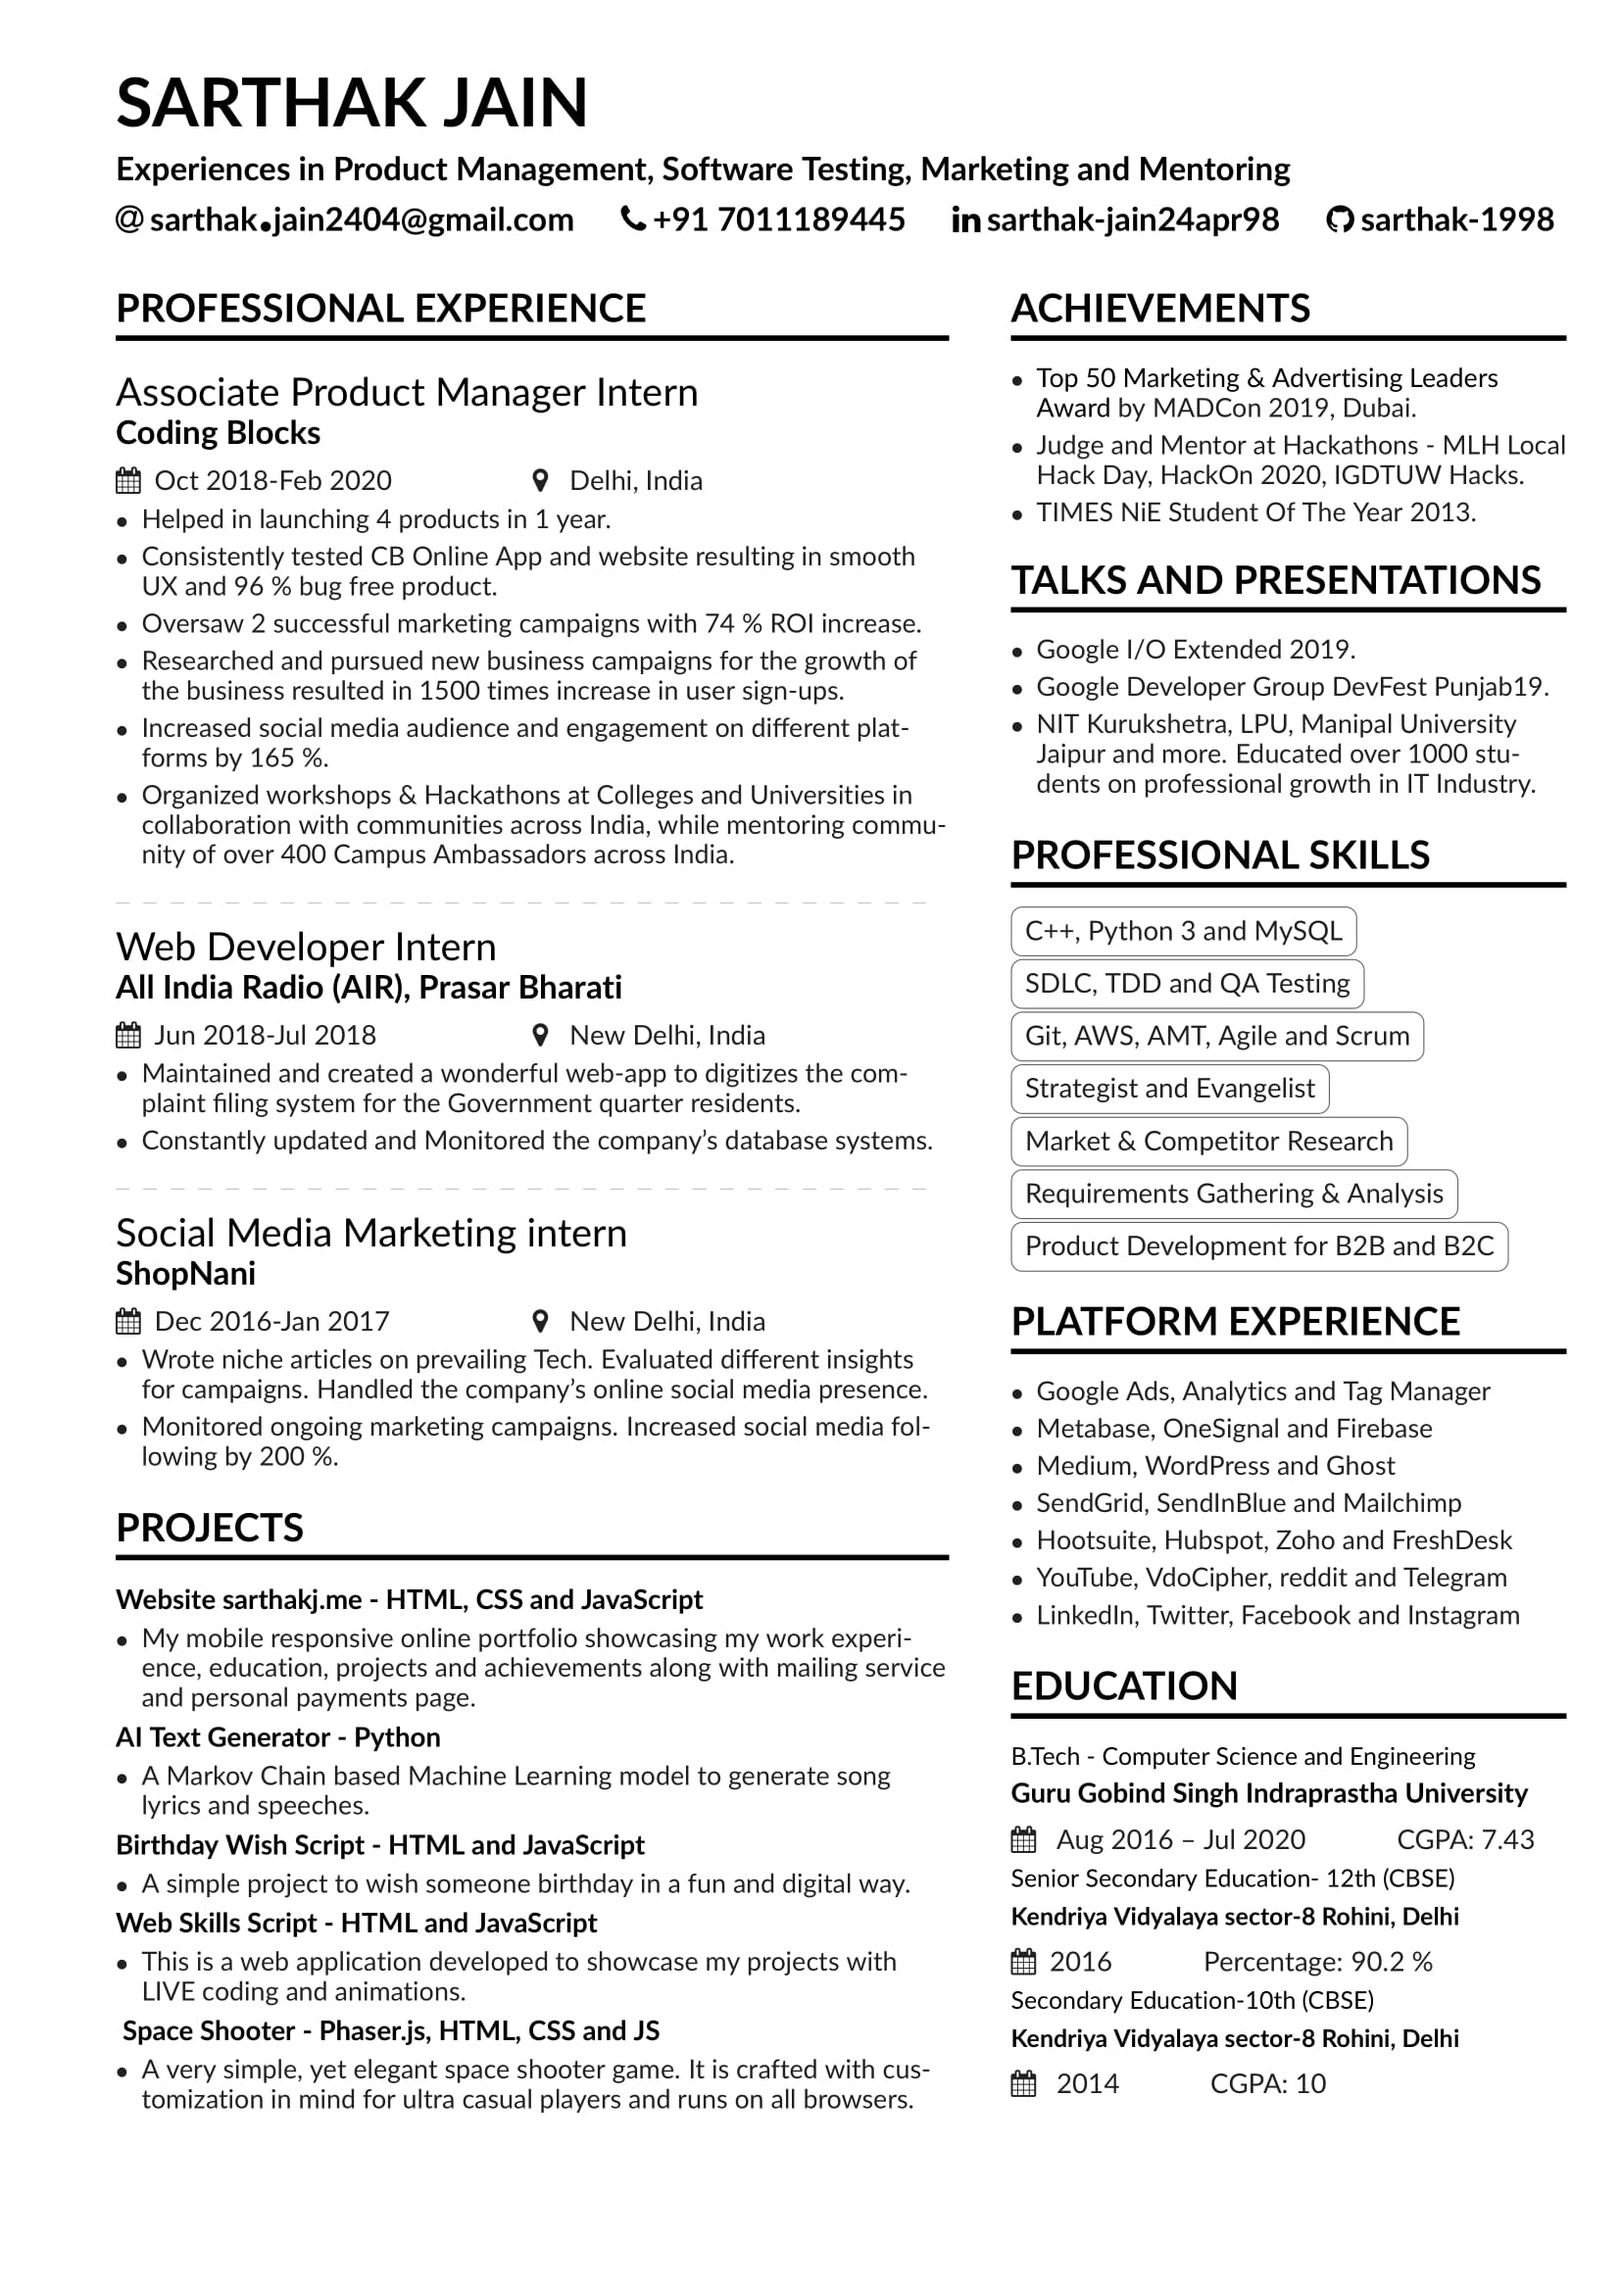
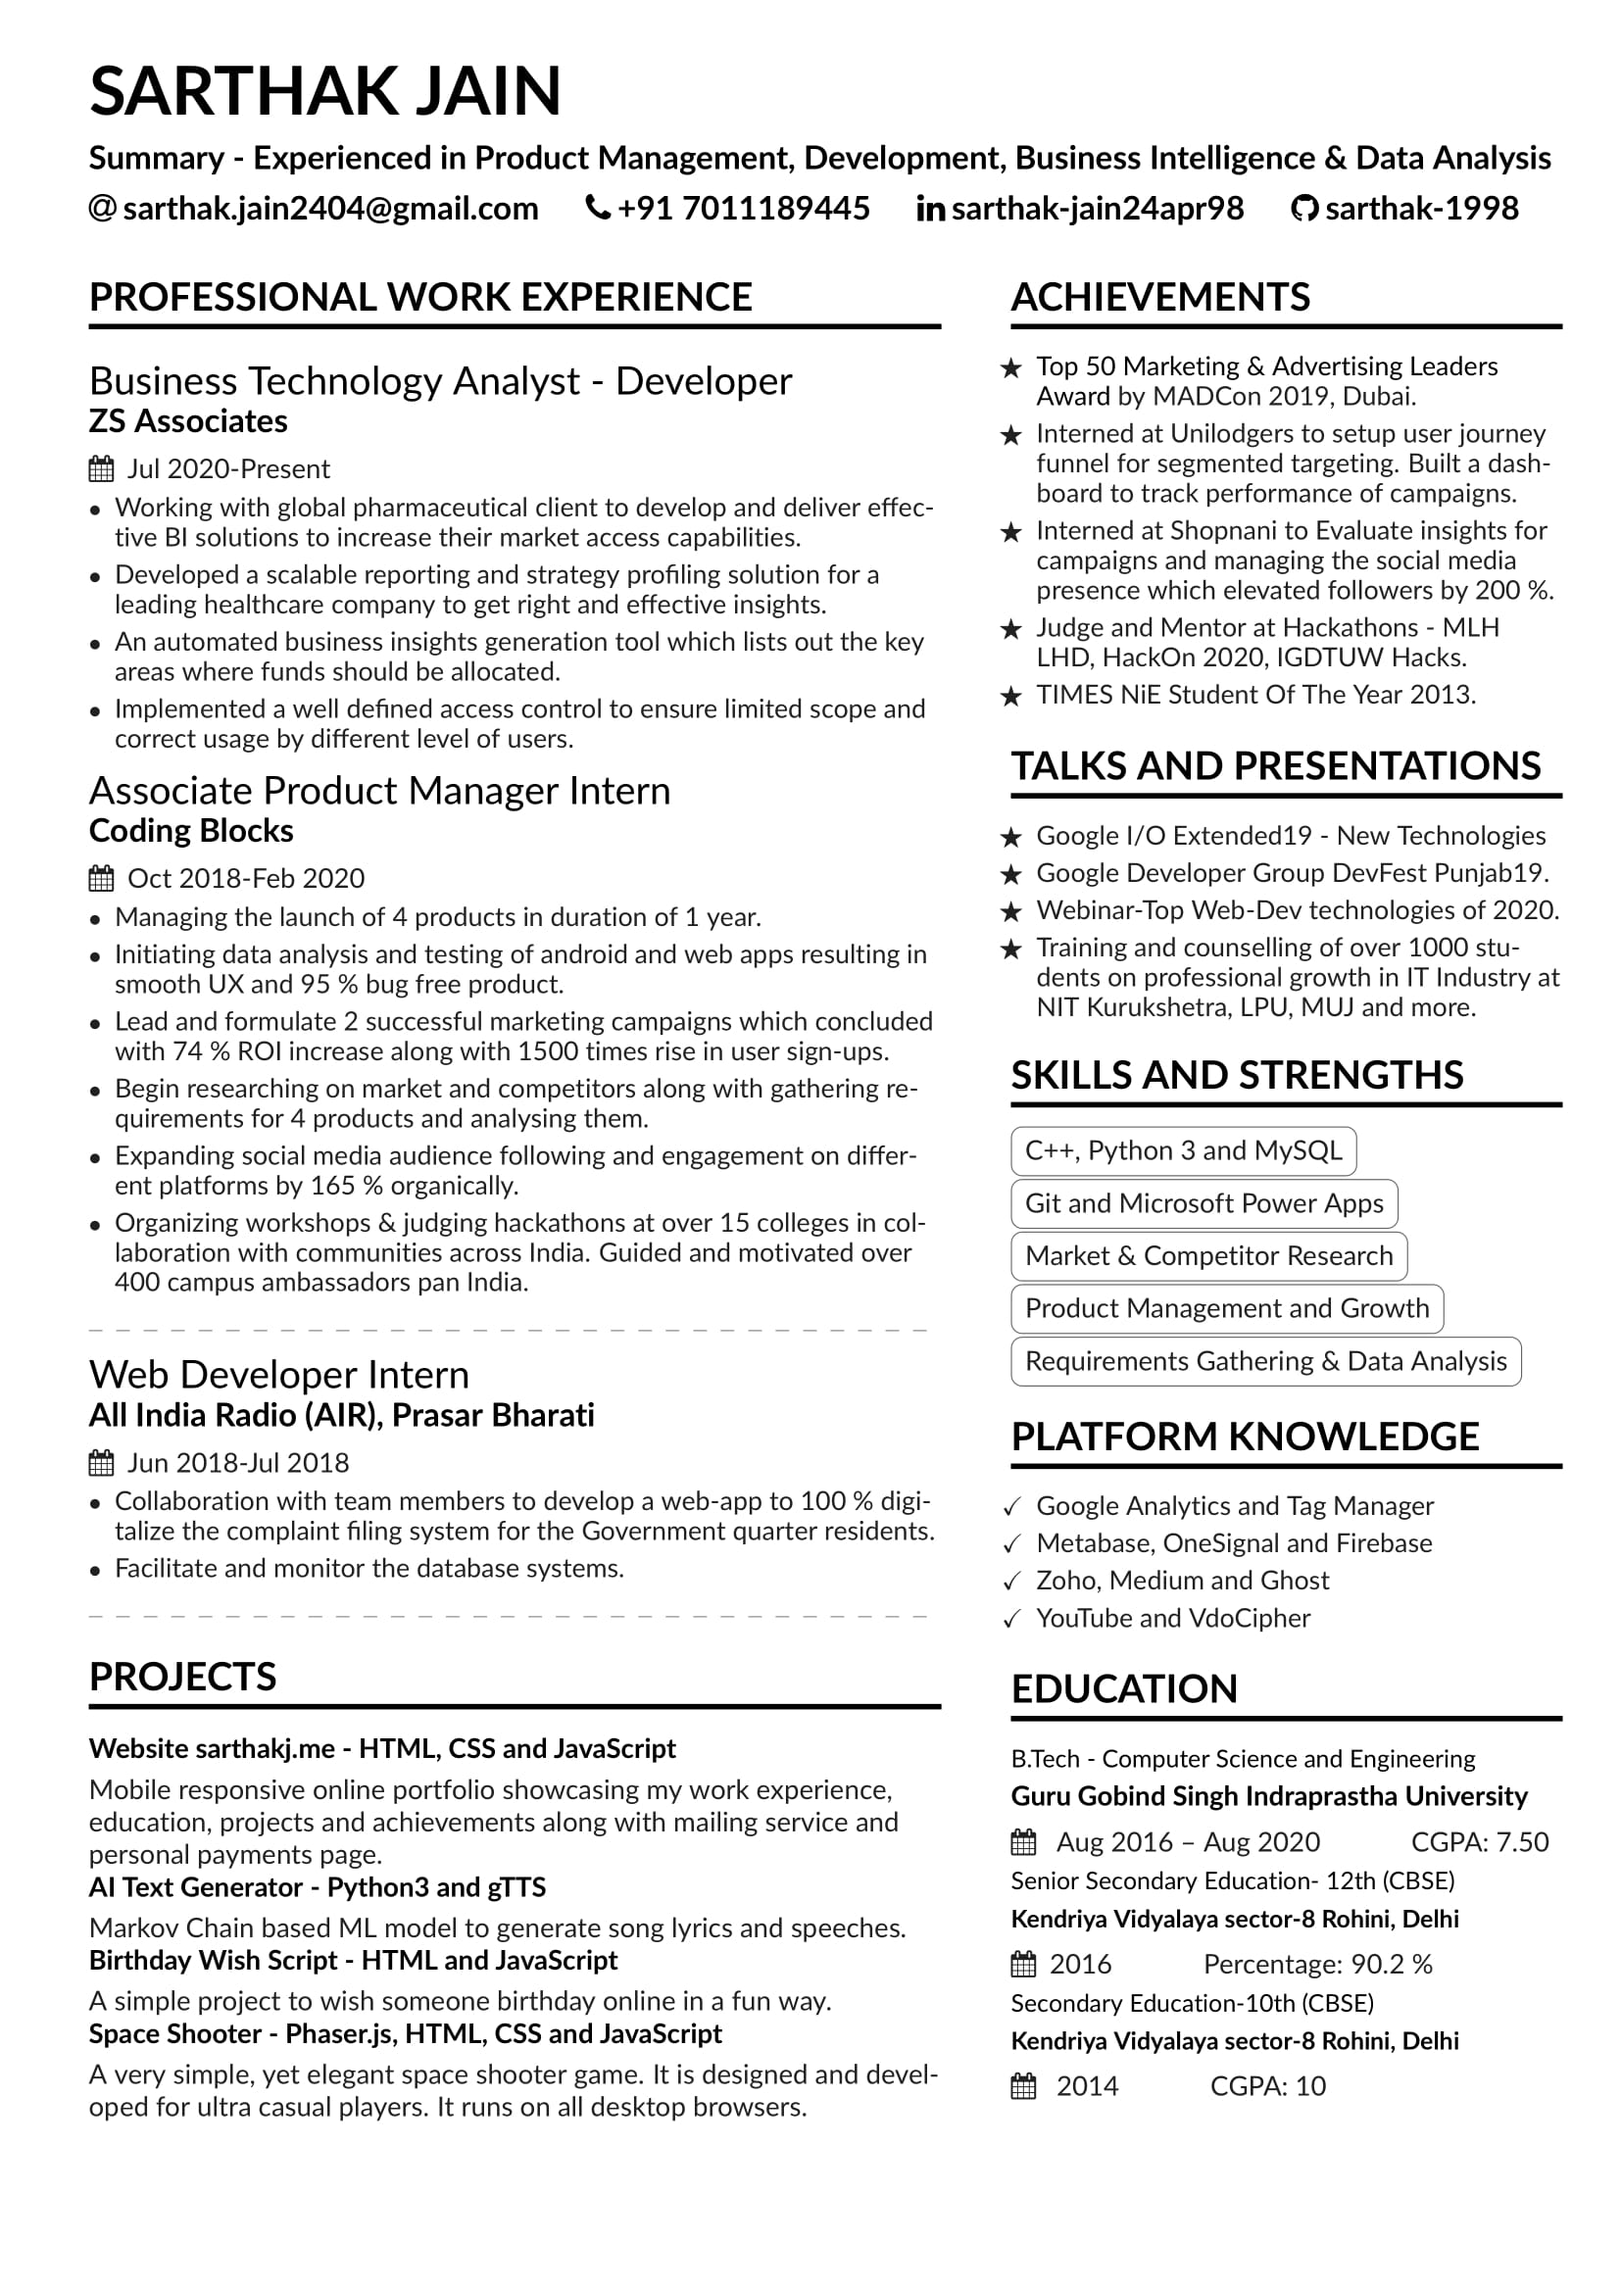
updated resume and jobs

Changed region(s): [[0.0617, 0.0312, 0.9559, 0.9363]]

diff --git a/index.html b/index.html
@@ -208,7 +208,7 @@
 
 
           <p>Hi 👋 I am Sarthak Jain, <strong>a Computer Science Engineering undergraduate </strong> (2016-2020) from GGSIPU Delhi, India. 
-            I've been a developer, evangelist, judge, speaker and mentor. Programming and Marketing for products is not just a career path for me, but also a passion of mine.
+           Coding and Marketing for products is not just a career path for me, but also a passion of mine.
             I like to make web-apps, games and new stuff. 
             Love to contribute in open source & various communities. If you've made any project, I would definitely like to see it !! 
             Recently, I've taken a keen interest in product management and data analysis.</p>
@@ -234,7 +234,7 @@
             </div>
             <div class="flex-title">
               <h3>Business Technology Analyst - Developer
-                <a href = "https://allindiaradio.gov.in/"><small>ZS Associates</small> </a>
+                <a href = "https://www.zs.com/"><small>ZS Associates</small> </a>
                 <small>Jul 2020 - Present</small>
               </h3>
             </div>
@@ -245,6 +245,26 @@
               <li>Developed a scalable reporting and strategy profiling solution for a leading healthcare company to get right and effective insights.</li>
               <li>An automated business insights generation tool which lists out the key areas where funds should be allocated.</li>
               <li>Implemented a well defned access control to ensure limited scope and correct usage by different level of users.</li>
+            </ul>
+          </div>
+
+          <div class="flex-container">
+            <div class="flex-media-logo">
+              <img src="./assets/Unilodgers.png">
+            </div>
+            <div class="flex-title">
+              <h3>Product Intern
+                <a href = "https://www.unilodgers.com/"><small>Unilodgers </small> </a>
+                <small>Jun 2020 - Jul 2020 </small>
+              </h3>
+            </div>
+          </div>
+          <div class="content-left-offset"><p>Part of a project:</p>
+            <ul>
+              <li>Setting up cohorts for users based upon current funnel stage in product life-cycle for precise targeting.</li>
+              <li>Built a dashboard to track performance of campaigns.</li>
+              <li>Strategized loyaty program for user rebooking to increase LTV</li>
+           
             </ul>
           </div>
 
@@ -408,7 +428,7 @@
             </div>
             <div class="flex-title">
               <h3>AI Lyrics Generator 🎼 <a href="https://github.com/sarthak-1998/Rap-Generator" target="_blank"><img src="./assets/link-external.svg"></a>
-                <small>Python 3</small>
+                <small>Python 3 and gTTS</small>
                
               </h3>
             </div>
@@ -484,15 +504,15 @@
             <strong>ACHIEVEMENTS: 🏆 </strong>
             <ul>
               <li>Selected for the <a href = "https://drive.google.com/drive/folders/1W8HZmATotqPVJcRV8dol9LuKinMlSWxu?usp=sharing"><small> Top 50 Marketing & Advertising
-                Leaders Award </small> </a> by MADCon 2019, Dubai.</li>
-              <li>Interned at Unilodgers to setup user journey
+                Leaders Award </small> </a> by MADCon 2019, Dubai</li>
+              <!-- <li>Interned at Unilodgers to setup user journey
                   funnel for segmented targeting. Built a dashboard
                   to track performance of campaigns.
-                </li>
+                </li> -->
                 
               <li> Judge and Mentor at Hackathons - MLH Local
-                Hack Day, HackOn 2020, IGDTUW Hacks.</li>
-              <li>TIMES NiE Student of The Year 2013.</li>
+                Hack Day, HackOn 2020, IGDTUW Hacks</li>
+              <li>TIMES NiE Student of The Year 2013</li>
              
               
             </ul>
@@ -503,16 +523,20 @@
 
           <div class="content-left-offset2"><strong>TALKS & PRESENTATIONS: 🎤</strong>
             <ul>
-              <li>Google I/O Extended 2019</li>
-              <li> Google Developer Group DevFest Punjab 2019</li>
-              <li>
-                Webinar - Top Web-Development technologies of 2020.
-
+              <li> <a href = "https://www.linkedin.com/posts/sarthak-jain24apr98_io19extended-google-io-activity-6542084758430674944-dDkg">
+                <small> Google I/O Extended 2019 </small> </a>
+              </li>
+              <li> <a href = "https://www.linkedin.com/posts/sarthak-jain24apr98_devfest-googledevelopergroups-womentechmakers-activity-6588625422014091264-Pbc-/">
+                <small> Google Developer Group DevFest Punjab 2019</small> </a>
+              </li>
+              <li> <a href = "https://www.youtube.com/watch?v=6RS0q9Oih2E&feature=youtu.be&t=368%20">
+                <small> Webinar - Top Web-Development technologies of 2020.</small> </a>
+                
               </li>
              
               <li>NIT Kurukshetra, LPU, Manipal University
                 Jaipur and more. Educated over 1000 students
-                on professional growth in IT Industry.</li>
+                on professional growth in IT Industry</li>
               
             </ul>
           </div>
@@ -523,7 +547,7 @@
               <li>C++, Python 3 and MySQL</li>
              
               <li>Git and Microsoft Power Apps</li>
-              <li>Strategist and Evangelist</li>
+
               <li>Market & Competitor Research</li>
               <li>Requirements Gathering & Data Analysis</li>
               <li>Product Management and Growth for B2B and B2C</li>

diff --git a/src/index.html b/src/index.html
@@ -208,7 +208,7 @@
 
 
           <p>Hi 👋 I am Sarthak Jain, <strong>a Computer Science Engineering undergraduate </strong> (2016-2020) from GGSIPU Delhi, India. 
-            I've been a developer, evangelist, judge, speaker and mentor. Programming and Marketing for products is not just a career path for me, but also a passion of mine.
+           Coding and Marketing for products is not just a career path for me, but also a passion of mine.
             I like to make web-apps, games and new stuff. 
             Love to contribute in open source & various communities. If you've made any project, I would definitely like to see it !! 
             Recently, I've taken a keen interest in product management and data analysis.</p>
@@ -234,7 +234,7 @@
             </div>
             <div class="flex-title">
               <h3>Business Technology Analyst - Developer
-                <a href = "https://allindiaradio.gov.in/"><small>ZS Associates</small> </a>
+                <a href = "https://www.zs.com/"><small>ZS Associates</small> </a>
                 <small>Jul 2020 - Present</small>
               </h3>
             </div>
@@ -245,6 +245,26 @@
               <li>Developed a scalable reporting and strategy profiling solution for a leading healthcare company to get right and effective insights.</li>
               <li>An automated business insights generation tool which lists out the key areas where funds should be allocated.</li>
               <li>Implemented a well defned access control to ensure limited scope and correct usage by different level of users.</li>
+            </ul>
+          </div>
+
+          <div class="flex-container">
+            <div class="flex-media-logo">
+              <img src="./assets/Unilodgers.png">
+            </div>
+            <div class="flex-title">
+              <h3>Product Intern
+                <a href = "https://www.unilodgers.com/"><small>Unilodgers </small> </a>
+                <small>Jun 2020 - Jul 2020 </small>
+              </h3>
+            </div>
+          </div>
+          <div class="content-left-offset"><p>Part of a project:</p>
+            <ul>
+              <li>Setting up cohorts for users based upon current funnel stage in product life-cycle for precise targeting.</li>
+              <li>Built a dashboard to track performance of campaigns.</li>
+              <li>Strategized loyaty program for user rebooking to increase LTV</li>
+           
             </ul>
           </div>
 
@@ -408,7 +428,7 @@
             </div>
             <div class="flex-title">
               <h3>AI Lyrics Generator 🎼 <a href="https://github.com/sarthak-1998/Rap-Generator" target="_blank"><img src="./assets/link-external.svg"></a>
-                <small>Python 3</small>
+                <small>Python 3 and gTTS</small>
                
               </h3>
             </div>
@@ -484,15 +504,15 @@
             <strong>ACHIEVEMENTS: 🏆 </strong>
             <ul>
               <li>Selected for the <a href = "https://drive.google.com/drive/folders/1W8HZmATotqPVJcRV8dol9LuKinMlSWxu?usp=sharing"><small> Top 50 Marketing & Advertising
-                Leaders Award </small> </a> by MADCon 2019, Dubai.</li>
-              <li>Interned at Unilodgers to setup user journey
+                Leaders Award </small> </a> by MADCon 2019, Dubai</li>
+              <!-- <li>Interned at Unilodgers to setup user journey
                   funnel for segmented targeting. Built a dashboard
                   to track performance of campaigns.
-                </li>
+                </li> -->
                 
               <li> Judge and Mentor at Hackathons - MLH Local
-                Hack Day, HackOn 2020, IGDTUW Hacks.</li>
-              <li>TIMES NiE Student of The Year 2013.</li>
+                Hack Day, HackOn 2020, IGDTUW Hacks</li>
+              <li>TIMES NiE Student of The Year 2013</li>
              
               
             </ul>
@@ -503,16 +523,20 @@
 
           <div class="content-left-offset2"><strong>TALKS & PRESENTATIONS: 🎤</strong>
             <ul>
-              <li>Google I/O Extended 2019</li>
-              <li> Google Developer Group DevFest Punjab 2019</li>
-              <li>
-                Webinar - Top Web-Development technologies of 2020.
-
+              <li> <a href = "https://www.linkedin.com/posts/sarthak-jain24apr98_io19extended-google-io-activity-6542084758430674944-dDkg">
+                <small> Google I/O Extended 2019 </small> </a>
+              </li>
+              <li> <a href = "https://www.linkedin.com/posts/sarthak-jain24apr98_devfest-googledevelopergroups-womentechmakers-activity-6588625422014091264-Pbc-/">
+                <small> Google Developer Group DevFest Punjab 2019</small> </a>
+              </li>
+              <li> <a href = "https://www.youtube.com/watch?v=6RS0q9Oih2E&feature=youtu.be&t=368%20">
+                <small> Webinar - Top Web-Development technologies of 2020.</small> </a>
+                
               </li>
              
               <li>NIT Kurukshetra, LPU, Manipal University
                 Jaipur and more. Educated over 1000 students
-                on professional growth in IT Industry.</li>
+                on professional growth in IT Industry</li>
               
             </ul>
           </div>
@@ -523,7 +547,7 @@
               <li>C++, Python 3 and MySQL</li>
              
               <li>Git and Microsoft Power Apps</li>
-              <li>Strategist and Evangelist</li>
+
               <li>Market & Competitor Research</li>
               <li>Requirements Gathering & Data Analysis</li>
               <li>Product Management and Growth for B2B and B2C</li>
